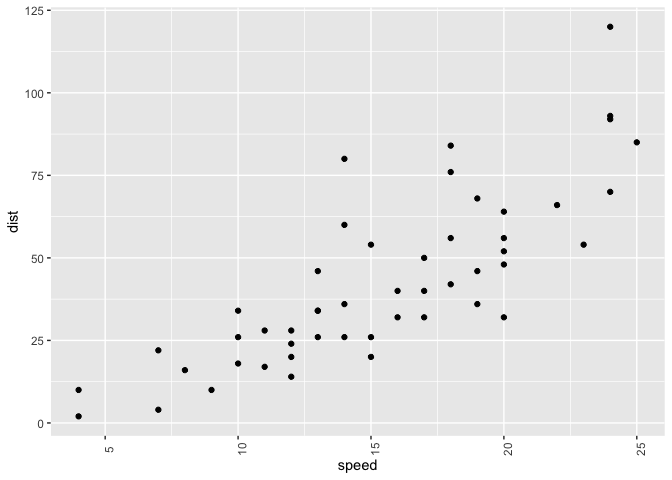
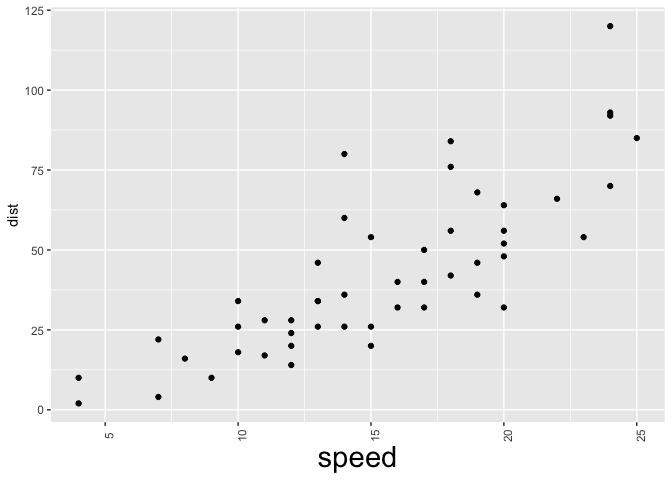
fixed examples

diff --git a/README.md b/README.md
@@ -75,26 +75,32 @@ Or,
 
 ![](man/figures/README-example_rotate_labels-1.png)
 
+Or,
+
+    ggplot(data=iris, 
+           mapping=aes(x=Sepal.Length, 
+                      y=Petal.Length, color=Species))+
+      geom_point()+
+      gg_("double the font size on the x-axis")
+
+![](man/figures/README-example_increase_fontsize-1.png)
+
 If you want to go the safer route, just use the `ggx` package as
 personal assistant that helps you find solutions to common graph
 formatting problems, like in the following:
 
     gghelp("How can I hide the graph legend?")
-    #> Warning in gghelp("How can I hide the graph legend?"): No clear match found!
-    #> NULL
+    #> theme(legend.position = "none")
 
 Or,
 
     gghelp("I want to flip my x-axis and y-axis.")
     #> coord_flip()
-    #> [1] "coord_flip()"
 
 Or,
 
     gghelp("How can I increase the font size on the x axis?")
-    #> Warning in gghelp("How can I increase the font size on the x axis?"): There were
-    #> no matches!
-    #> NULL
+    #> theme(axis.title.x=element_text(size=rel(2)))
 
 Disclaimer (continued)
 ----------------------
